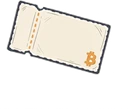
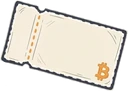
Il biglietto aveva un alone, e la soglia diventa una manopola per-voce
«Buoni ed esperienze» si vedeva piccola e alta in Sfoglia: il file
portava un alone tenue — alpha fra 8 e 32 — steso su TUTTA la tela,
quindi a soglia globale 8 risultava già tirato mentre il disegno vero
(378×268) stava appoggiato in alto. È la velatura di «Bellezza» al
contrario: lì la soglia globale bastava, qui alzarla per tutti
mangerebbe l'antialiasing delle altre 26.

Nasce quindi la seconda tabellina dei ritocchi a mano, SOGLIE —
gemella di RITOCCHI: la soglia alpha per la singola voce, decisa
misurando il bbox a più soglie. Il biglietto passa da 0.68× a 1.00×
l'inchiostro mediano (in equilibrio esatto), cresce di ~21% in pagina
e si ricentra più in basso; le altre 26 non si muovono di un pixel.
Idempotente verificato, 95 prove verdi, guardato in griglia da Andrea.

diff --git a/ritaglia_categorie.py b/ritaglia_categorie.py
@@ -56,6 +56,17 @@ TETTO = 1.05
 # Chi ne aggiunge una lo faccia dopo aver guardato la griglia intera,
 # non la singola piastrella.
 RITOCCHI = {"animali": .68}
+# La SOGLIA per-voce, seconda tabellina dei ritocchi (ago 2026, nata
+# col biglietto di «Buoni ed esperienze»): il file arrivava con un
+# alone tenue — alpha fra 8 e 32 — steso su TUTTA la tela, quindi con
+# la soglia globale risultava gia' tirato mentre il disegno vero
+# (378x268) stava appoggiato in ALTO, e in piastrella si vedeva
+# piccolo e alto. Alzare la soglia solo per lui ritaglia l'alone senza
+# toccare il disegno, che cresce e si ricentra; alzarla per TUTTI
+# mangerebbe l'antialiasing dei bordi delle altre 26. Chi aggiunge una
+# voce misuri prima il bbox a piu' soglie, come per la velatura di
+# Bellezza.
+SOGLIE = {"buoni-ed-esperienze": 32}
 # Sotto questo scarto non si riscrive: un ritocco da pochi pixel non
 # vale una seconda compressione.
 MINIMO = .02
@@ -68,11 +79,11 @@ LATO_MINI = 128
 SUFFISSO_MINI = "-mini"
 
 
-def _misura(im):
+def _misura(im, soglia=SOGLIA_ALPHA):
     """riquadro del disegno, inchiostro e resa nel riquadro del CSS"""
     from PIL import Image  # noqa: F401  (serve solo al chiamante)
     a = im.getchannel("A")
-    bb = a.point(lambda v: 255 if v > SOGLIA_ALPHA else 0).getbbox()
+    bb = a.point(lambda v: 255 if v > soglia else 0).getbbox()
     if bb is None:
         return None, 0, 0
     disegno = im.crop(bb)
@@ -100,7 +111,7 @@ def main():
     misure = {}
     for nome in file:
         im = Image.open(os.path.join(CARTELLA, nome)).convert("RGBA")
-        bb, ink, reso = _misura(im)
+        bb, ink, reso = _misura(im, SOGLIE.get(nome[:-5], SOGLIA_ALPHA))
         if bb is None:
             print(f"  ⚠ {nome}: tutto trasparente, lasciato com'e'")
             continue
